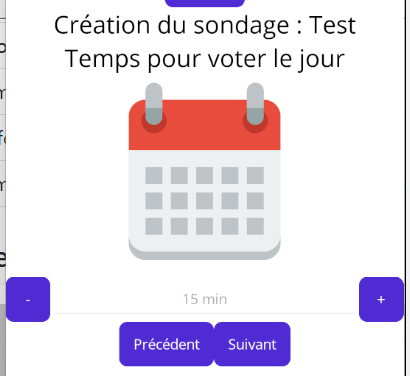
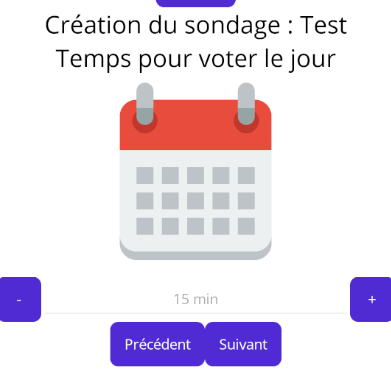
minor changes

diff --git a/README.md b/README.md
@@ -19,8 +19,13 @@ Next Drink est une application mobile développée en MAUI .NET C#. L'objectif d
 | 2h   | 1h |   
 | 5h   | 2h |   
 
-<img src="src/createVote.png" alt="createVote" width="200"/>
-<img src="src/timerDay.png" alt="timerDay" width="200"/>
+<table>
+  <tr>
+    <td><img src="src/createVote.png" alt="createVote" width="200"></td>
+    <td><img src="src/timerDay.png" alt="timerDay" width="200"></td>
+    <td><img src="src/timerHour.png" alt="timerHour" width="200"></td>
+  </tr>
+</table>
 
 
 ### Vote
@@ -91,7 +96,7 @@ Next Drink est une application mobile développée en MAUI .NET C#. L'objectif d
 
 ### Base de données
 
-<img src="src/bdd.png" alt="bdd" width="200"/>
+<img src="src/bdd.png" alt="bdd" width="400"/>
 
 
 ### Connexion au serveur en Socket.io
@@ -123,3 +128,4 @@ Next Drink est une application mobile développée en MAUI .NET C#. L'objectif d
      Console.WriteLine("Connection failed"+ex.Message);
  }
 ```
+
